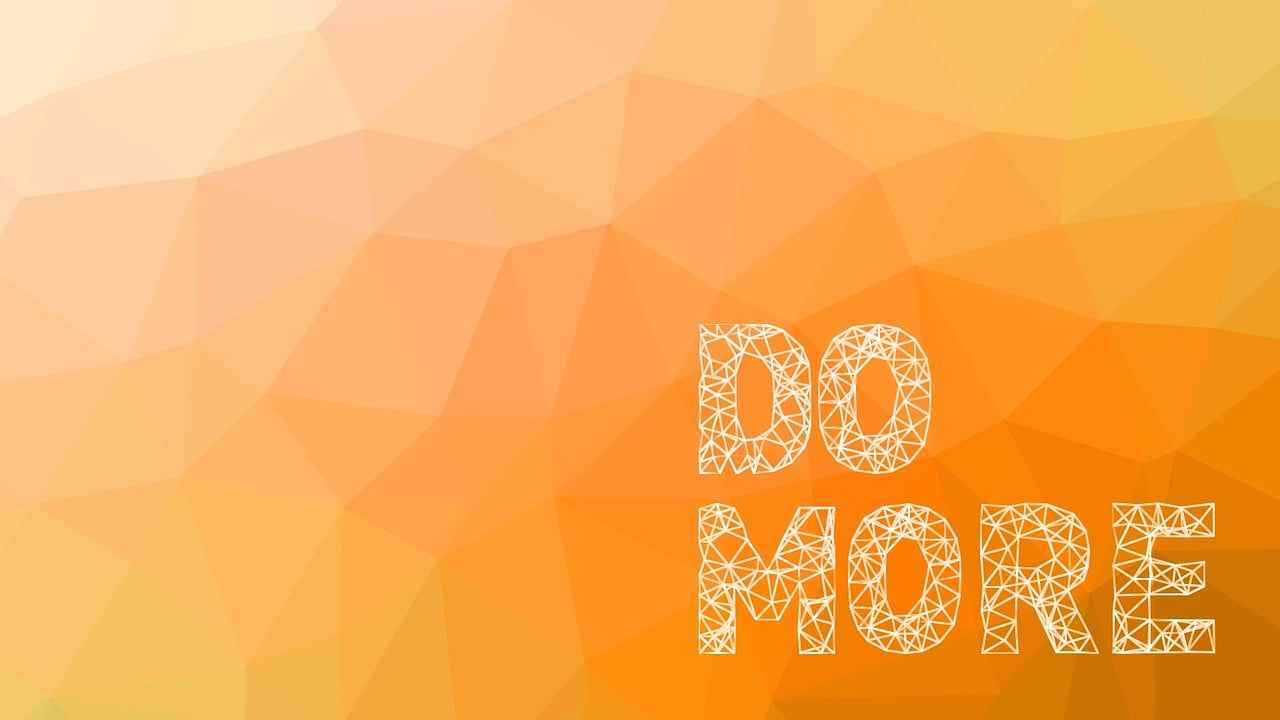
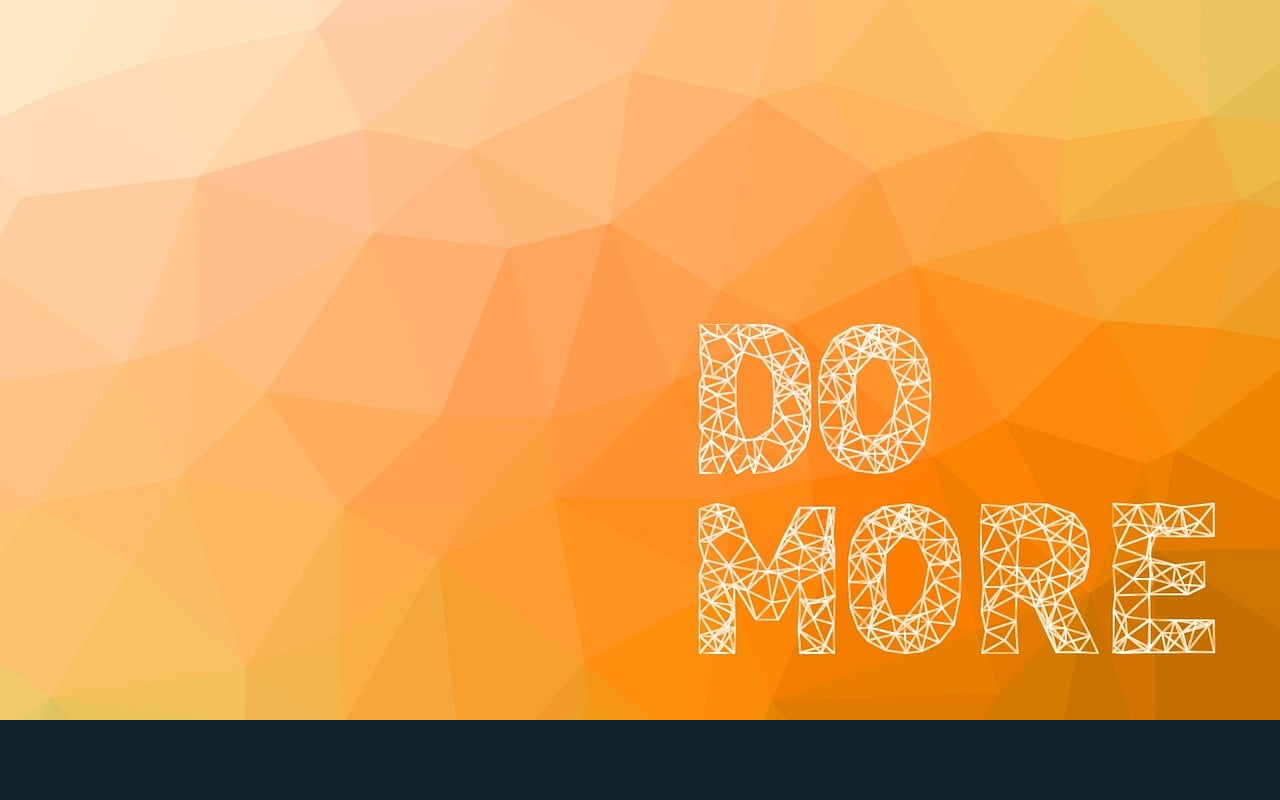
feat(ui): add footer component

diff --git a/static/css/style.css b/static/css/style.css
@@ -1,4 +1,7 @@
 body {
+    display: flex;
+    flex-direction: column;
+    min-height: 100vh; /* Full viewport height */
     background-color: #DFAD38;
     color: #0F242B;
     font-family: "Roboto", sans-serif;
@@ -24,13 +27,18 @@ body {
       margin-right: auto;
   }
 
+  main {
+    flex: 1; /* make main content area grow to fill the available space */
+  }
+
   /* remove spacing between buttons */
   a.d-inline-block {
     margin: 0;
   }
   /* Main section height 100% of viewport */
   .main-card-container {
-    height: 100vh;
+    height: 100vh
+    /* margin-bottom: 3rem; */
   }
   .navbar-brand {
     padding: 0;
@@ -48,8 +56,8 @@ body {
    
   /* Container padding */
   .container {
-    padding-top: 5rem;
-    padding-bottom: 5rem;
+    padding-top: 2rem;
+    padding-bottom: 2rem;
   }
   
   /* Card styling */
@@ -109,8 +117,19 @@ body {
     width: 200px;
 }
 
+footer {
+  margin-top: auto; /* Pushes the footer to the bottom */
+  background-color: #0F242B;
+}
+
 /* Media query to target smaller than tablet screens */
 @media (max-width: 768px) {
+
+  /* Reduce top and bottom padding */
+  .container {
+    padding-top: 0.25rem;
+    padding-bottom: 0.25rem;
+  }
 
   /* Hide the first table header cell (Task To Do) */
   .table th:first-child {
@@ -140,6 +159,11 @@ body {
   .table th:nth-child(2), .table th:nth-child(3), .table td:nth-child(2), .table td:nth-child(3) {
     width: 40%;
     display: inline-block;
+  }
+
+  /* Push the footer down on small screens */
+  .main-card-container {
+    height: auto;
   }
 
 }

diff --git a/templates/base.html b/templates/base.html
@@ -26,7 +26,7 @@
     <link rel="preconnect" href="https://fonts.gstatic.com" crossorigin>
     <link href="https://fonts.googleapis.com/css2?family=Roboto:ital,wght@0,100;0,300;0,400;0,500;0,700;0,900;1,100;1,300;1,400;1,500;1,700;1,900&display=swap" rel="stylesheet">
 </head>
-<body id="bootstrap-overrides">
+<body class="d-flex flex-column min-vh-100">
     <!-- Navigation bar -->
     <nav class="navbar navbar-expand-lg navbar-light bg-light">
         <div class="container-fluid">
@@ -60,10 +60,17 @@
     </nav>
 
     <!-- Main content section -->
-    <main class="container py-4">
+    <main class="flex-fill container py-4">
         {% block content %}
         {% endblock %}
     </main>
+
+    <!-- Footer -->
+    <footer class="text-center text-lg-start text-white mt-auto">
+        <div class="text-center p-3">
+            © Copyright 2024 Ted Aylmer
+        </div>
+    </footer>
 
     <!-- Bootstrap JS -->
     <script src="https://cdn.jsdelivr.net/npm/bootstrap@5.1.3/dist/js/bootstrap.min.js" integrity="sha384-QJHtvGhmr9XOIpI6YVutG+2QOK9T+ZnN4kzFN1RtK3zEFEIsxhlmWl5/YESvpZ13" crossorigin="anonymous"></script>

diff --git a/todo/templates/todo/todo_list.html b/todo/templates/todo/todo_list.html
@@ -4,8 +4,8 @@
 {% block title %}ToDo List - ToDo Genie{% endblock %}
 
 {% block content %}
-<section class="vh-100 main-card-container">
-    <div class="container py-5 h-100">
+<section class="main-card-container">
+    <div class="container h-100 py-3">
         <div class="row d-flex justify-content-center align-items-center h-100">
             <div class="col-lg-12 col-xl-11">
                 <article class="card rounded-3">
@@ -15,7 +15,7 @@
                             <p class="text-center brand-text">ToDo <span class="brand-text-lite">G</span>enie</p>
                         </header>
                         <section class="instructions">
-                            <p>Welcome to ToDo Genie. Add tasks using the text box and then prioritise or delete tasks using the Status and Actions buttons.</p>
+                            <p>Welcome to ToDo Genie. Add tasks using the text box and then prioritize or delete tasks using the Status and Actions buttons.</p>
                         </section>
                         <!-- Display messages -->
                         {% if messages %}

diff --git a/templates/account/login.html b/templates/account/login.html
@@ -10,7 +10,7 @@
     <div class="row">
         <div class="col-md-6 float-left">
             <article class="card rounded-3">
-                <div class="card-body custom-card-body p-4">
+                <div class="card-body custom-card-body p-6">
                     <header>
                         <img class="img-center" src="{% static 'images/genielogosmall.png' %}" alt="Genie Logo">
                         <p class="text-center brand-text">ToDo <span class="brand-text-lite">G</span>enie</p>
@@ -21,7 +21,7 @@
 
                             <p>{% blocktrans %}Welcome to ToDo Genie. Your personal to-do list.
                                 Please log in to create a task list. If you
-                                have not created an account yet, then <a class="link" href="{{ signup_url }}">sign up</a>
+                                have not created an account yet, then <a class="link" href="{{ signup_url }}">register</a>
                                 first.{% endblocktrans %}</p>
                         </div>
                     </div>

diff --git a/templates/account/logout.html b/templates/account/logout.html
@@ -7,7 +7,7 @@
 {% block content %}
 <div class="container">
     <article class="card rounded-3">
-        <div class="card-body custom-card-body p-4">
+        <div class="card-body custom-card-body p-6">
             <header>
                 <img class="img-center" src="{% static 'images/genielogosmall.png' %}" alt="Genie Logo">
                 <p class="text-center brand-text">ToDo <span class="brand-text-lite">G</span>enie</p>

diff --git a/templates/account/signup.html b/templates/account/signup.html
@@ -17,7 +17,7 @@
                     </header>
                     <div class="row">
                         <div class="col-md-12">
-                            <h3>{% trans "Sign Up" %}</h3>
+                            <h3>{% trans "Register" %}</h3>
 
                             <p>{% blocktrans %}Create a new account to start using ToDo Genie.{% endblocktrans %}</p>
                         </div>

diff --git a/templates/account/base.html b/templates/account/base.html
@@ -8,7 +8,7 @@
     {% block extra_head %}
     {% endblock extra_head %}
   </head>
-  <body>
+  <body >
     {% block body %}
 
     {% if messages %}
